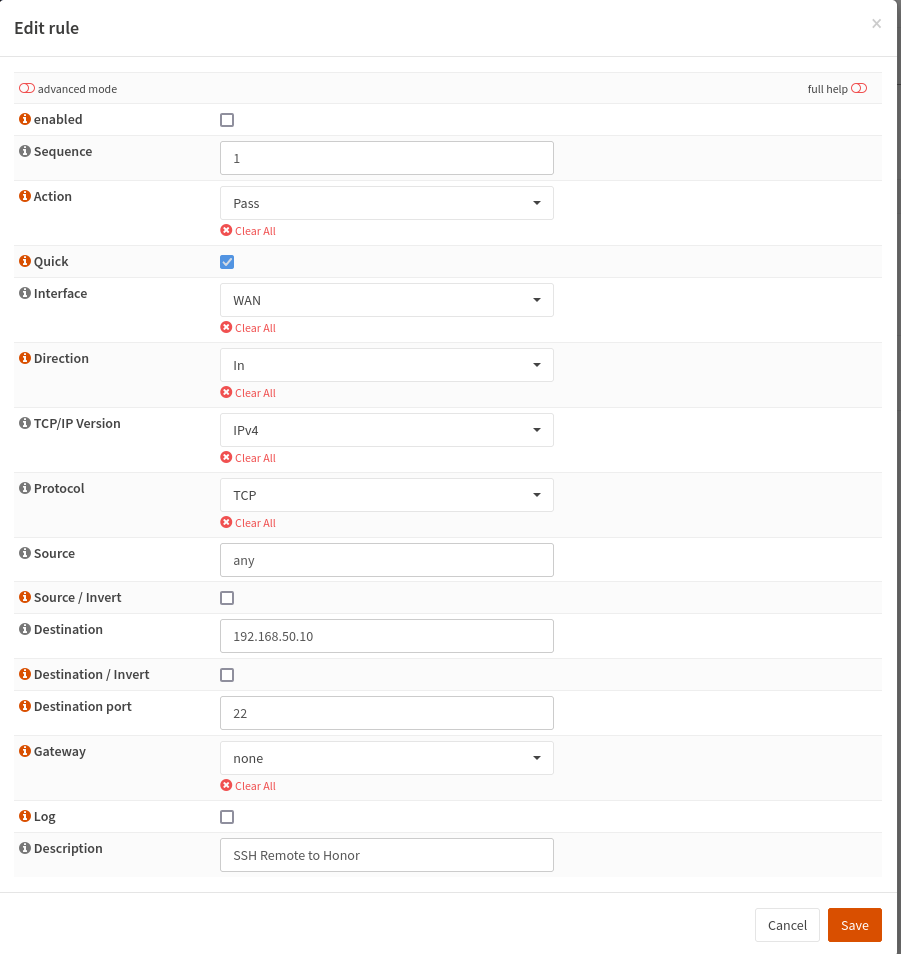
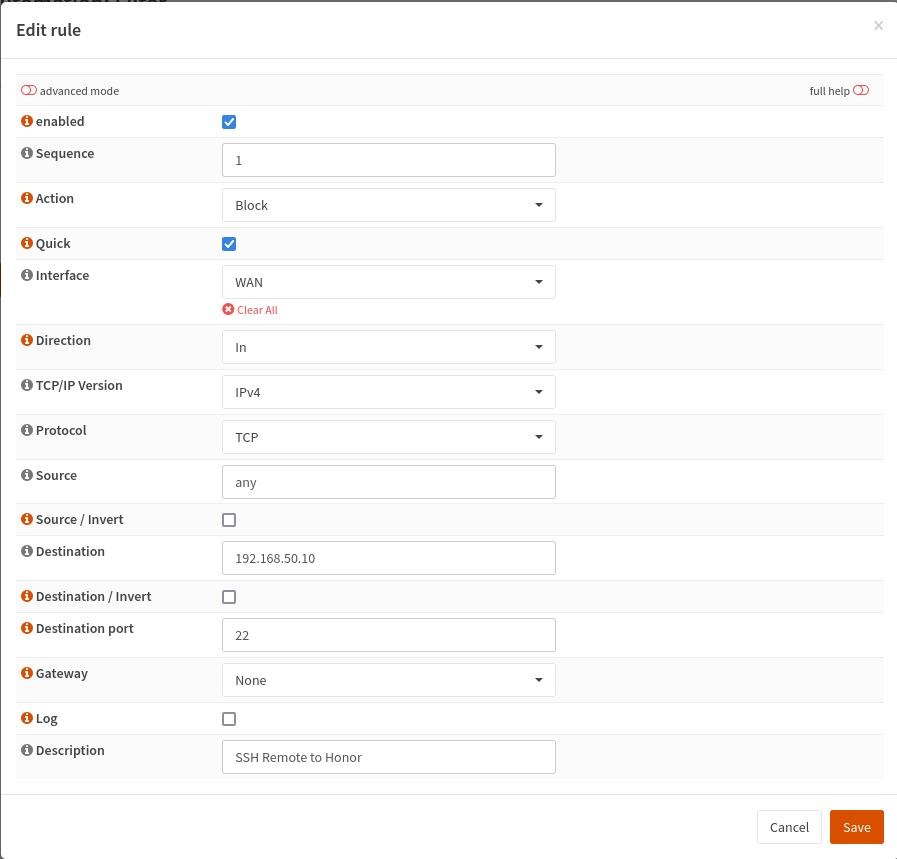
update Opnsense Firewall via HASS post

diff --git a/content/post/2021/opnsense-firewall/index.md b/content/post/2021/opnsense-firewall/index.md
@@ -73,7 +73,7 @@ binary_sensor:
     resource: http://OPNSENSE_URL/api/firewall/filter/getRule/UUID_OF_AUTOMATION_RULE
     username: !secret opnsense_user
     password: !secret opnsense_key
-    value_template: "{{ value_json.rule.enabled }}"
+    value_template: "{{ value_json.rule.enabled == '0' }}"
  ```
 
 Since you need two commands to enable/disable the firewall rule (one to toggle the rule on/off, the other to actually apply the change), I found it easier to create a simple script to call both commands.
@@ -108,3 +108,4 @@ And here's what the final result looks like:
 ## Conclusion
 There you have it.  You can now automate enabling or disabling firewall rules in OPNsense as needed.  There are probably other ways to do this, such as with a VPN, but this works for me.  Hope someone finds it helpful!
 
+> **NOTE**: I updated this post in November 2023.  Opnsense seems to have altered how rules are handled and I noticed that when the rule was "enabled" I was not able to get through the firewall, but if it was disabled I could get through.  I swapped my setup around and everything is working.  Not sure why or when the changed happened.
